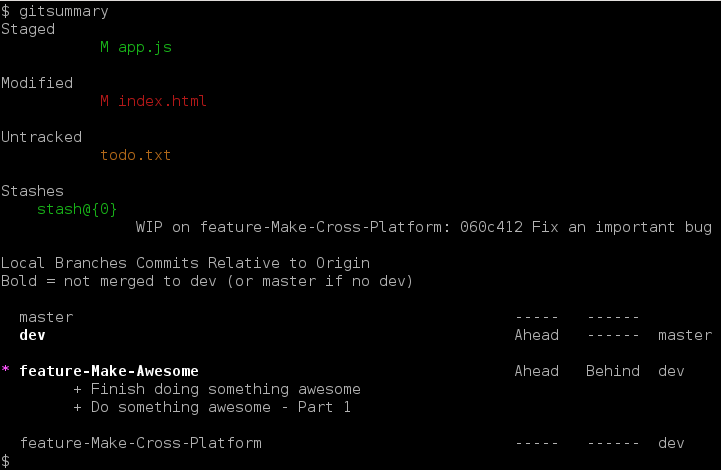
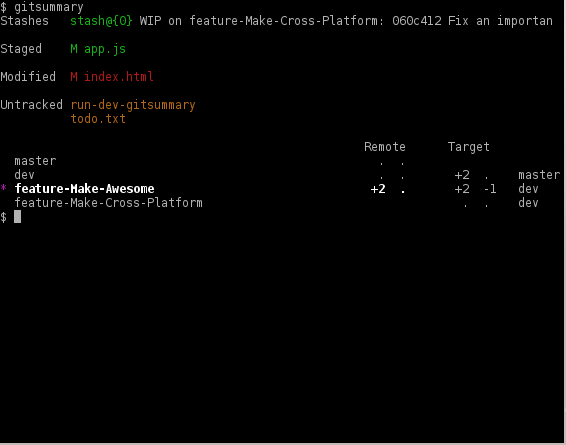
Update readme and screenshots

diff --git a/README.md b/README.md
@@ -1,60 +1,92 @@
-#gitsummary#
+# gitsummary
 
-Summarize git file and branches status
+Summarize git repository and branch statuses
 
-##Description##
+## Description
 Use `gitsummary` to see a summary of your git repository:
 
-* All staged, modified, and untracked files
 * All stashes
+* All staged, modified, and untracked files
 * For each local branch:
-   * All commits that differ between local and origin
-   * All commits that differ between local and either your `dev` or `master`
-     (it looks for `dev` first, and falls back to `master`)
+   * Number of commits that differ between local and remote
+   * Number of commits that differ between local and `dev`
+     (`dev` will be compared to `master`)
 
-##Example - All Branches##
+Use `gitsummary branch` to see a summary of a particular branch:
+
+* All stashes (regardless of what commit they're associated with)
+* All staged, modified, and untracked files
+* One-line descriptions for all commits that differ between local and remote
+* Number of commits that differ between local and `dev`
+(`dev` will be compared to `master`)
+
+
+## Example - All Branches
 ![](https://raw.githubusercontent.com/glenreesor/gitsummary/master/doc/output.default.png)
 
 `gitsummary` shows a snapshot of your git repository. This screenshot shows:
 
-* local `dev` has commits that haven't been merged to local `master`
+* There is one stash on commit `060c412`
+* A list of staged, modified, and untracked files
+* local `dev` has 2 commits that haven't been merged to local `master`
 * local `feature-Make-Awesome`:
-   * has two commits that haven't been pushed to origin
-   * has some commits that haven't been merged to local `dev`
-   * is missing some commits from local `dev`
+   * has 2 commits that haven't been pushed to its remote
+   * has 2 commits that haven't been merged to local `dev`
+   * is missing 1 commit from local `dev`
 
-* local `feature-Make-Cross-Platform` is in sync with its origin, and
-  local `dev`
+* local `feature-Make-Cross-Platform` does not have a corresponding remote,
+ and is up to date with local `dev`
 
-##Example - Current Branch##
+## Example - Current Branch
 ![](https://raw.githubusercontent.com/glenreesor/gitsummary/master/doc/output.currentBranch.png)
 
-`gitsummary --current` shows complete information about how the current
-branch differs from the origin (left column) and from local `dev` (or `master`
-if no `dev`) (right column)
+`gitsummary branch` shows complete information about the current branch
 
 This screenshot shows local `feature-Make-Awesome`:
 
    * has two commits that haven't been pushed to origin
-   * is missing one commit from local `dev`
-   * has two commits that haven't been merged to local `dev`
+   (`Finish doing something awesome` and `Do something awesome - Part 1`)
+   * has 2 commits that haven't been merged to local its 'target' branch
+   (`dev`)
+   * is missing 1 commit from its target branch (`dev`)
 
-##Usage##
+The specific commits relative to its target can be shown using `--target`
+
+## Usage
 ```
-gitsummary [options]
-    --branch NAME    - Show only the specified branch. Implies --long
-    --compareto NAME - Compare to the specified local branch rather
-                       than dev/master
-    --current        - Show only the current branch. Implies --long
-    --long           - Also show commits that differ between branch
-                       and dev (or master if dev does't exist)
-    --short          - Do not show commits that differ between branch and
-                       dev (or master if dev does't exist)
-                       This is the default when --current is not specified
+Usage: gitsummary [repo | branch] [options]
+    repo   - Show a summary of the current git repository, including:
+                 - Stashes and staged/modified/untracked files
+                 - All local branches
+                 - For each branch, the number of commits differing from its
+                   remote and merge target
+                       - Commits Ahead: +n
+                       - Commits Behind: -n
+                       - No remote or merge target signified by blanks
+           - This is the default if neither 'repo' nor 'branch' is specified.
+
+             Options:
+                 --n - Format output for a screen width of n characters
+
+    branch - Show a summary of the current branch, including remote name,
+             merge target name, commits differing from the remote, and
+             number of commits differing from merge target.
+
+           - Commits listed under "Local Branch" exist in the local branch but
+             not the remote. Commits listed under "Remote" exist in the remote
+             but not the local branch.
+             Options:
+                 BRANCH   - Any argument that doesn't start with -- is treated
+                            as a branch to use for the comparison, instead of
+                            the current branch
+                 --hash   - Show commit hashes as well as descriptions
+                 --target - Show the commits differing from the merge target
+                            instead of just the number
+                 --n      - Format output for a screen width of n characters
 ```
 
-##Requirements##
+## Requirements
 python3
 
-##Installation##
-Easy! Just copy `gitsummary` to a folder in your path, and you're set!
+## Installation
+Easy! Just copy [gitsummary](https://raw.githubusercontent.com/glenreesor/gitsummary/master/gitsummary) to a folder in your path, and you're set!
